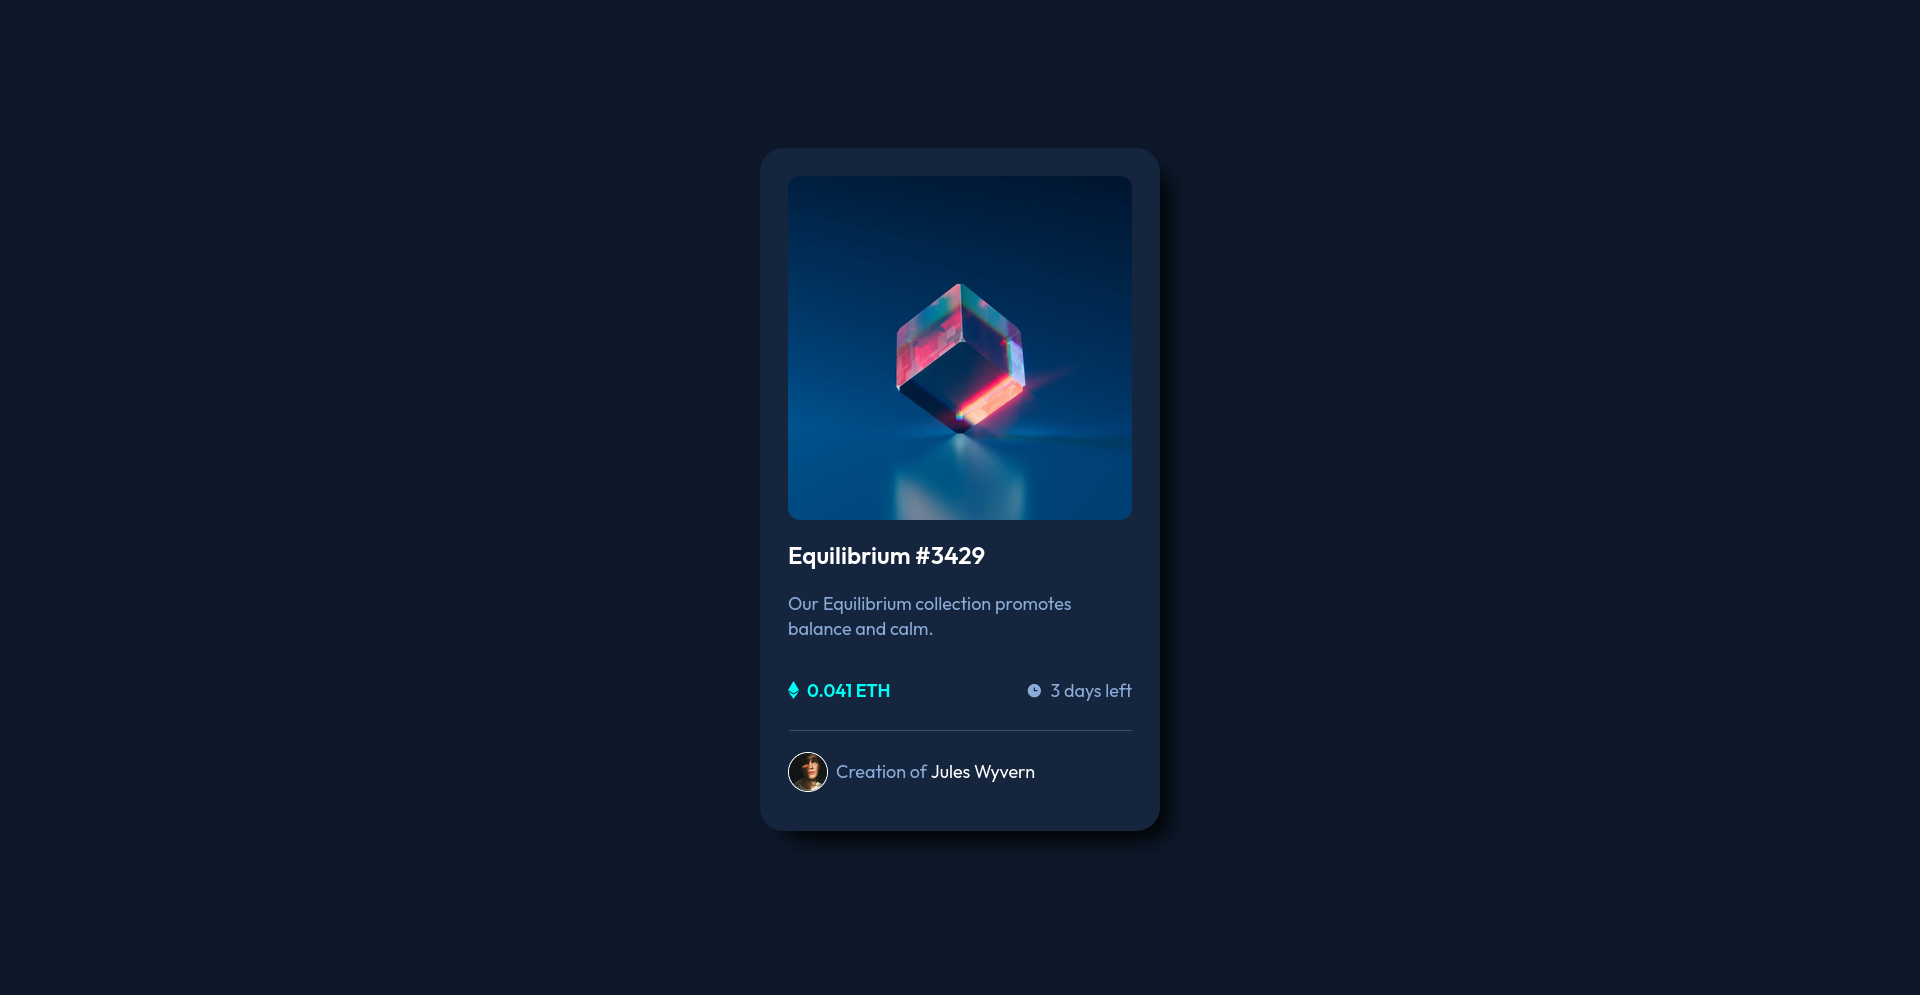
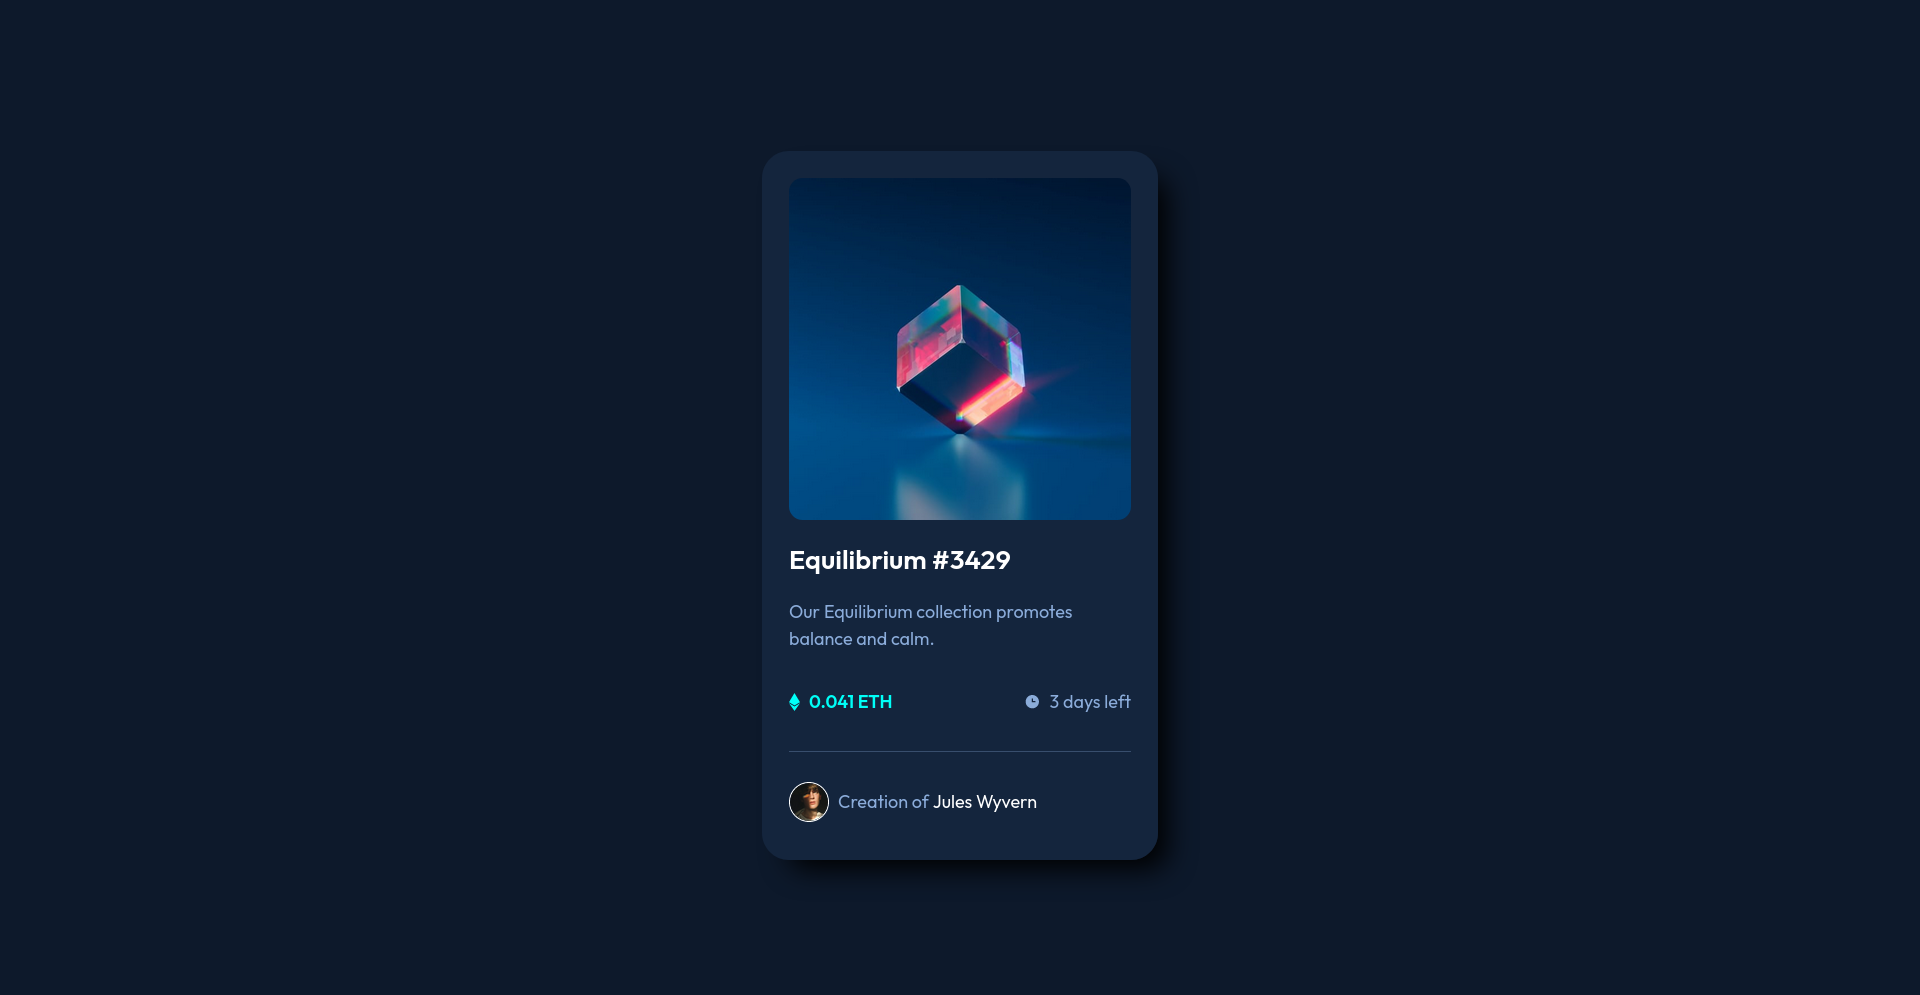
Edit code after feedback

diff --git a/index.html b/index.html
@@ -13,12 +13,13 @@
 <body>
 
   <main class="card">
+    <h1 class="sr-only">NFT preview card component challenge solution for Frontend Mentor</h1>
 
     <a href="#">
       <div class="card__image">
         <img src="./images/image-equilibrium.jpg" alt="the nft" class="image__img">
         <div class="image__overlay">
-          <svg width="48" height="48" xmlns="http://www.w3.org/2000/svg"><g fill="none" fill-rule="evenodd"><path d="M0 0h48v48H0z"/><path d="M24 9C14 9 5.46 15.22 2 24c3.46 8.78 12 15 22 15 10.01 0 18.54-6.22 22-15-3.46-8.78-11.99-15-22-15Zm0 25c-5.52 0-10-4.48-10-10s4.48-10 10-10 10 4.48 10 10-4.48 10-10 10Zm0-16c-3.31 0-6 2.69-6 6s2.69 6 6 6 6-2.69 6-6-2.69-6-6-6Z" fill="#FFF" fill-rule="nonzero"/></g></svg>
+          <svg aria-hidden="true" focusable="false" width="48" height="48" xmlns="http://www.w3.org/2000/svg"><g fill="none" fill-rule="evenodd"><path d="M0 0h48v48H0z"/><path d="M24 9C14 9 5.46 15.22 2 24c3.46 8.78 12 15 22 15 10.01 0 18.54-6.22 22-15-3.46-8.78-11.99-15-22-15Zm0 25c-5.52 0-10-4.48-10-10s4.48-10 10-10 10 4.48 10 10-4.48 10-10 10Zm0-16c-3.31 0-6 2.69-6 6s2.69 6 6 6 6-2.69 6-6-2.69-6-6-6Z" fill="#FFF" fill-rule="nonzero"/></g></svg>
         </div>
       </div>
     </a>
@@ -28,21 +29,19 @@
 
     <div class="card__price-section">
       <div class="flex-icon-text">
-        <svg width="11" height="18" xmlns="http://www.w3.org/2000/svg"><path d="M11 10.216 5.5 18 0 10.216l5.5 3.263 5.5-3.262ZM5.5 0l5.496 9.169L5.5 12.43 0 9.17 5.5 0Z" fill="#00FFF8"/></svg>
+        <svg aria-hidden="true" focusable="false" width="11" height="18" xmlns="http://www.w3.org/2000/svg"><path d="M11 10.216 5.5 18 0 10.216l5.5 3.263 5.5-3.262ZM5.5 0l5.496 9.169L5.5 12.43 0 9.17 5.5 0Z" fill="#00FFF8"/></svg>
         <p>0.041 ETH</p>
       </div>
 
       <div class="time flex-icon-text">
-        <svg width="17" height="17" xmlns="http://www.w3.org/2000/svg"><path d="M8.305 2.007a6.667 6.667 0 1 0 0 13.334 6.667 6.667 0 0 0 0-13.334Zm2.667 7.334H8.305a.667.667 0 0 1-.667-.667V6.007a.667.667 0 0 1 1.334 0v2h2a.667.667 0 0 1 0 1.334Z" fill="#8BACD9"/></svg>
+        <svg aria-hidden="true" focusable="false" width="17" height="17" xmlns="http://www.w3.org/2000/svg"><path d="M8.305 2.007a6.667 6.667 0 1 0 0 13.334 6.667 6.667 0 0 0 0-13.334Zm2.667 7.334H8.305a.667.667 0 0 1-.667-.667V6.007a.667.667 0 0 1 1.334 0v2h2a.667.667 0 0 1 0 1.334Z" fill="#8BACD9"/></svg>
         <p>3 days left</p>
       </div>
 
     </div>
 
-    <hr>
-
-    <div class="flex-icon-text">
-      <img src="images/image-avatar.png" alt="avatar" class="avatar" width="40px">
+    <div class="card__avatar-section flex-icon-text">
+      <img src="images/image-avatar.png" alt="Jules Wyvern" class="avatar" width="40">
       <p>Creation of <strong><a href="#">Jules Wyvern</a></strong></p>
     </div>
 

diff --git a/style.css b/style.css
@@ -34,6 +34,7 @@
     --dark-blue-line: hsl(215, 32%, 27%);
     --white: hsl(0, 0%, 100%);
     --soft-blue: hsl(215, 51%, 70%);
+    --soft-blue-30-opaque: rgba(	139, 172, 218, .3);
     --cyan: hsl(178, 100%, 50%);
     --cyan-60-opaque: rgba(0, 255, 247, .6);
 }
@@ -43,12 +44,15 @@
     box-sizing: border-box;
 }
 
+html {
+    font-size: 1.125rem;
+}
+
 body {
     display: grid;
     min-height: 100vh;
     justify-content: center;
     align-content: center;
-    font-size: 18px;
     background-color: var(--dark-blue-main-bg);
     font-family: 'Outfit', sans-serif;
 }
@@ -62,7 +66,7 @@ h2 {
 p {
     font-weight: 400;
     color: var(--soft-blue);
-    line-height: 1.6rem;
+    line-height: 1.5;
 }
 
 a {
@@ -80,10 +84,22 @@ strong {
     color: white;
 }
 
+/* Hiding class, making content visible only to screen readers but not visually */
+.sr-only:not(:focus):not(:active) {
+  clip: rect(0 0 0 0); 
+  clip-path: inset(50%);
+  height: 1px;
+  overflow: hidden;
+  position: absolute;
+  white-space: nowrap; 
+  width: 1px;
+}
+
+
 /* The card */
 .card {
-    max-width: 25rem;
-    padding: 1.75rem;
+    max-width: 22rem;
+    padding: 1.5rem;
     background-color: var(--dark-blue-card-bg);
     border-radius: 1.5rem;
     box-shadow: 1rem 1rem 1.5rem -0.5rem;
@@ -97,14 +113,6 @@ strong {
 .card__price-section>div:first-child p {
     color: var(--cyan);
     font-weight: 600;
-}
-
-hr {
-    border-top: 1px solid var(--soft-blue);
-    border-bottom: 1px solid transparent;
-    border-left: 1px solid transparent;
-    border-right: 1px solid transparent;
-    opacity: 30%;
 }
 
 
@@ -139,7 +147,13 @@ hr {
     opacity: 100%;
 } 
 
-/* The avatar */
+/* The avatar section */
+.card__avatar-section {
+    border-top: 1px solid var(--soft-blue-30-opaque);
+    margin-top: 1rem;
+    padding-top: 1rem;
+}
+
 .avatar {
     border: 1px solid white;
     border-radius: 50%;

diff --git a/README.md b/README.md
@@ -10,6 +10,7 @@ This is a solution to the Nft Preview Card challenge on [Frontend Mentor](https:
 - [My process](#my-process)
 	- [What I learned](#what-i-learned)
 	- [Questions to community](#questions-to-community)
+	- [Edits after feedback](edits-after-feedback)
 - [Author](#author)
 
 ## Overview
@@ -43,6 +44,13 @@ Any feedback on those or any other part of the challenge is welcome !
 
 Thank you all. 
 
+### Edits after feedback
+- Adding `<h1 class="sr-only">` that is visually hidden. 
+- Adding `aria-hidden="true"` and `focusable="false"` on each svgs icon that are decorative only to make all assistive technologies such as screen reader ignore those svgs.  
+- Modifying the alternative text of the avatar to something more explicit and descriptive than `avatar`.
+- Removing `<hr>`, instead using `border-top` to the avatar's part. 
+- Using unitless line-height values instead of `rem` as advised here : [line-height - CSS: Cascading Style Sheets | MDN](https://developer.mozilla.org/en-US/docs/Web/CSS/line-height#prefer_unitless_numbers_for_line-height_values)
+- Placing the `font-size` property on `html` element rather than `body`, using `%` to ensure that the end user can decide of the font size he wants in his browser, but respecting the 18px required in `style-guide.md`.
 
 ## Author
 
